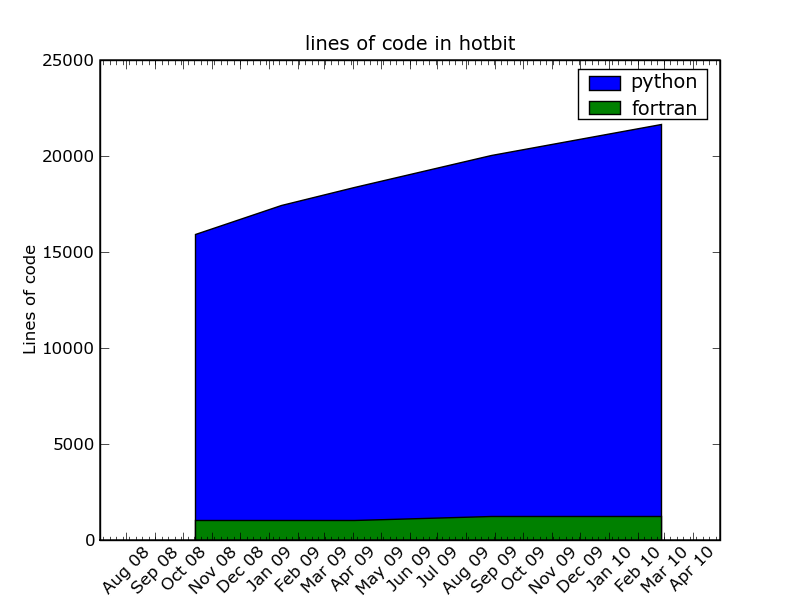
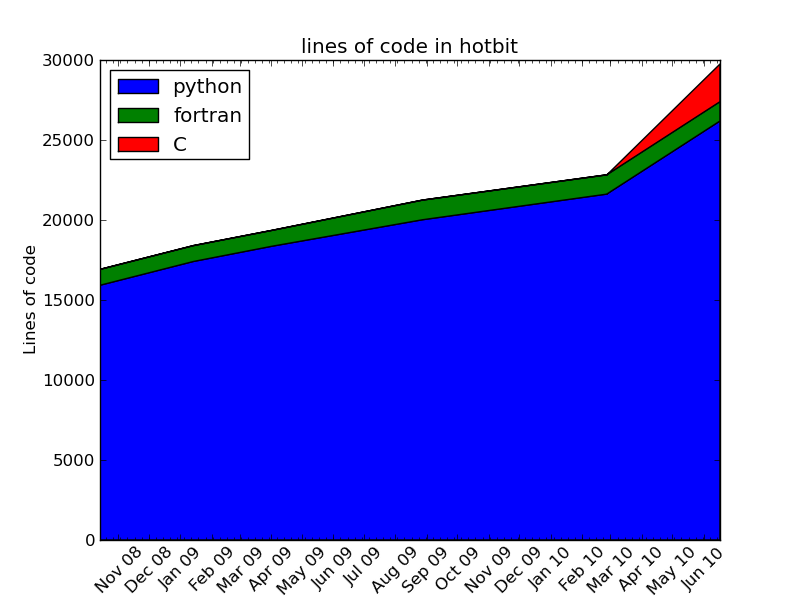
Update code lines.

Changed region(s): [[0.0312, 0.06, 0.9062, 0.99]]

diff --git a/hotbit/doc/code_lines.py b/hotbit/doc/code_lines.py
@@ -3,10 +3,12 @@ import pylab as pl
 from box import mix
 from time import time,localtime
 import datetime
-folder=os.environ.get('HOTBIT_DIR')
+folder='/home/pekkosk/workspace/hotbit' 
+datafile=folder+'/hotbit/doc/code_lines.txt' 
 
 python=0
 fortran=0
+c = 0
 for data in os.walk(folder):
     dirpath, dirnames, filenames = data
     if '.' in dirpath: continue
@@ -15,14 +17,13 @@ for data in os.walk(folder):
             python+=len( open(dirpath+'/'+file).readlines() )
         if file[-2:]=='90':
             fortran+=len( open(dirpath+'/'+file).readlines() )
-            
-  
+        if file[-1:]=='c' or file[-1:]=='h':
+            c+=len( open(dirpath+'/'+file).readlines() )
+        
 
-# append current lines into file
-datafile='%s/hotbit/doc/code_lines.txt' %folder
 o=open(datafile,'a')
 t=time()
-print>>o, t, python, fortran
+print>>o, t, python, fortran, c
 o.close()
 
 fig = pl.figure()
@@ -39,12 +40,14 @@ dates = [datetime.date(a[0],a[1],a[2]) for a in timetuples]
 #xs, ys = pl.poly_between(data[:,0],0,data[:,1])
 xs, ys = pl.poly_between(dates,0,data[:,1])
 pl.fill(xs,ys,label='python')
-xs, ys = pl.poly_between(dates,0,data[:,2])
+xs, ys = pl.poly_between(dates,data[:,1],data[:,1]+data[:,2])
 pl.fill(xs,ys,label='fortran')
+xs, ys = pl.poly_between(dates,data[:,1]+data[:,2],data[:,1]+data[:,2]+data[:,3])
+pl.fill(xs,ys,label='C')
 pl.title('lines of code in hotbit')
 pl.xlabel('Years since 14.10 2008')
 pl.ylabel('Lines of code')
-pl.legend()
+pl.legend(loc=2)
 
 from matplotlib.dates import MonthLocator, WeekdayLocator, DateFormatter
 from matplotlib.dates import MONDAY
